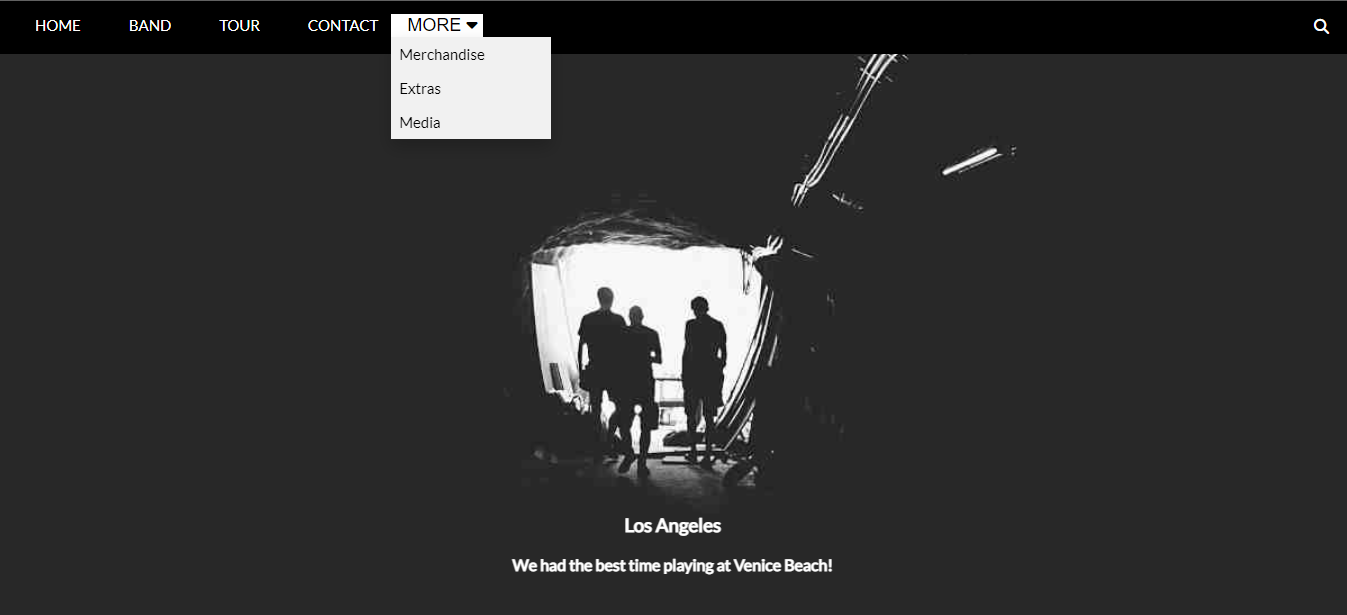
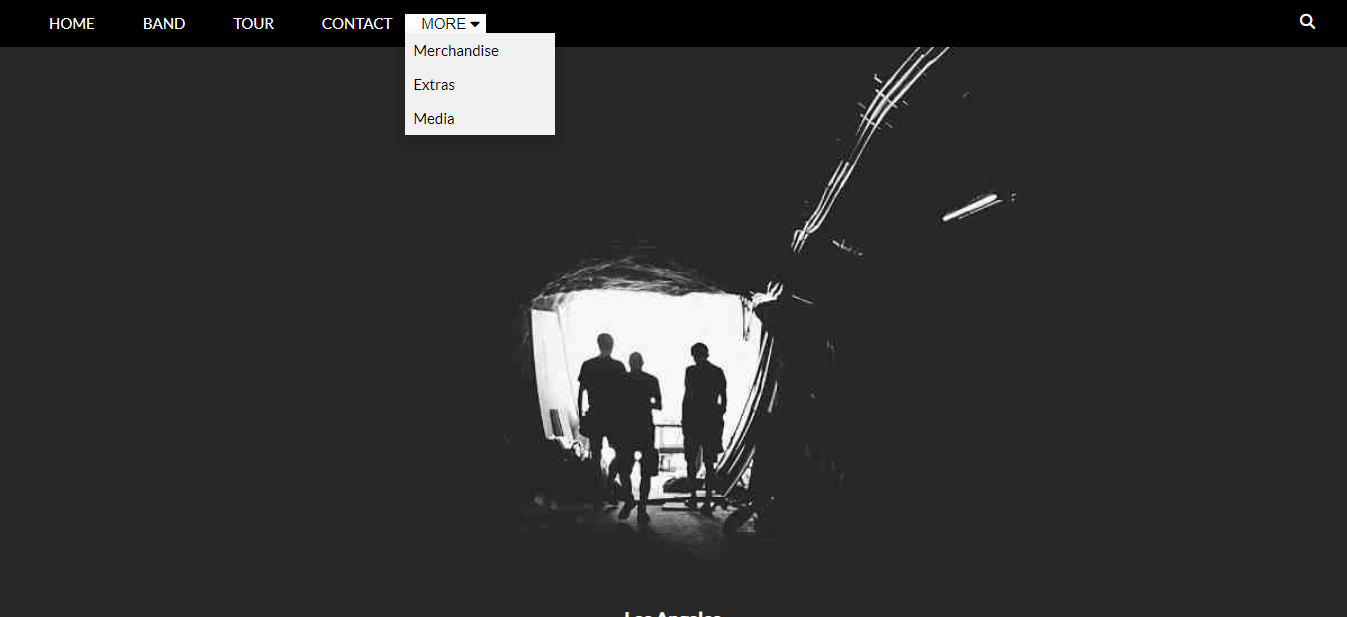
ek dosyalar duzenlendi ve proje tamamlandı

diff --git a/index.html b/index.html
@@ -1,0 +1,157 @@
+<!DOCTYPE html>
+<html lang="tr">
+<head>
+    <meta charset="UTF-8">
+    <meta http-equiv="X-UA-Compatible" content="IE=edge">
+    <meta name="viewport" content="width=device-width, initial-scale=1">
+    <title>W3.CSS Template</title>
+    <link rel="icon" href="/favicon/1.png" type="image/x-icon" />
+    <link rel="stylesheet" href="/style.css">
+    <link rel="stylesheet" href="https://fonts.googleapis.com/css?family=Lato">
+    <link rel="stylesheet" href="https://cdnjs.cloudflare.com/ajax/libs/font-awesome/6.3.0/css/all.min.css">
+</head>
+<body>
+    <!-- Navbar Start -->
+    <nav class="menu">
+        <li><a href="#" class="yazi">HOME</a></li>
+        <li></li><a href="#band" class="yazi">BAND</a></li>
+        <li><a href="#tour" class="yazi">TOUR</a></li>
+        <li></li><a href="#contact" class="yazi">CONTACT</a></li>
+        <div class="dropdown">
+            <button class="dropbtn">MORE <i class="fa-solid fa-caret-down"></i></button>
+            <div class="dropdown-content">
+              <a href="#">Merchandise</a>
+              <a href="#">Extras</a>
+              <a href="#">Media</a>
+            </div>
+          </div>
+          <a href="#"><i class="fa-solid fa-magnifying-glass search"></i></a>
+        </nav>
+    <!-- Navbar End -->
+    <div class="picture1">
+        <div class="pic">
+            <img class="pic" src="/assets/la.jpg" style="width: 100%;">
+        <div class="pictext">
+        <h3>Los Angeles</h3>
+        <p><b>We had the best time playing at Venice Beach!</b></p>
+    </div>
+</div>
+</div>
+    <!-- Picture End -->
+
+    <!-- Section Start -->
+    <section class="section" id="band">
+        <h2 class="sech1">T H E &nbsp; B A N D</h2>
+        <h3 class="sech2"><i>We love music</i></h3>
+        <p class="secparagraf">We have created a fictional band website. Lorem ipsum dolor sit amet, consectetur adipiscing elit, sed do eiusmod tempor incididunt ut labore et dolore magna aliqua. Ut enim ad minim veniam, quis nostrud exercitation ullamco laboris nisi ut aliquip ex ea commodo consequat. Duis aute irure dolor in reprehenderit in voluptate velit esse cillum dolore eu fugiat nulla pariatur. Excepteur sint occaecat cupidatat non proident, sunt in culpa qui officia deserunt mollit anim id est laborum consectetur adipiscing elit, sed do eiusmod tempor incididunt ut labore et dolore magna aliqua. Ut enim ad minim veniam, quis nostrud exercitation ullamco laboris nisi ut aliquip ex ea commodo consequat.</p>
+        <div>
+            <div class="anadiv">
+                <div class="d1">
+                <p class="bprg1">Name</p>
+                <img class="bimg1" src="/assets/bandmember.jpg">
+            </div>
+            </div>
+            <div class="anadiv">
+                <div class="d2">
+                <p class="bprg1">Name</p>
+                <img class="bimg1" src="/assets/bandmember.jpg">
+            </div>
+            </div>
+            <div class="anadiv">
+                <div class="d3">
+                <p class="bprg1">Name</p>
+                <img class="bimg1" src="/assets/bandmember.jpg">
+            </div>
+            </div>
+    </div>
+    <div class="tour" id="tour">
+        <div>
+        <h2 class="tourh1">T O U R &nbsp; D A T E S</h2>
+        <p class="tourp1"><i>Remember to book your tickets!</i></p>
+        <ul class="list">
+            <li class="li1">September<span class="sp1">Sold Out</span></li>
+            <hr>
+            <li class="li2">October<span class="sp2">Sold Out</span></li>
+            <hr>
+            <li class="li3">November<span class="sp3">3</span></li>
+        </ul>
+    </div>
+    <div class="card">
+        <div class="ny">
+        <img class="img1" src="/assets/newyork.jpg">
+        <br>
+            <h3 class="ch1">New York</h3>
+            <p class="cprg1">Fri 27 Nov 2016</p>
+            <p class="cprg2">Praesent tincidunt sed tellus ut rutrum sed vitae justo.</p>
+            <button class="button1" type="submit">Buy Tickets</button>
+        </div>
+        <div class="prs">
+            <img class="img1" src="/assets/paris.jpg">
+            <br>
+            <h3 class="ch1">Paris</h3>
+            <p class="cprg1">Sat 28 Nov 2016</p>
+            <p class="cprg2">Praesent tincidunt sed tellus ut rutrum sed vitae justo.</p>
+            <button class="button1" type="submit">Buy Tickets</button>
+        </div>
+        <div class="sanf">
+            <img class="img1" src="/assets/sanfran.jpg">
+            <br>
+            <h3 class="ch1">San Francisco</h3>
+            <p class="cprg1">Sun 29 Nov 2016</p>
+            <p class="cprg2">Praesent tincidunt sed tellus ut rutrum sed vitae justo.</p>
+            <button class="button1" type="submit">Buy Tickets</button>
+        </div>
+    </div>
+    </div>
+    <div class="contact" id="contact">
+        <div>
+        <h2 class="ch">C O N T A C T</h2>
+        <p class="cp"><i>Fan? Drop a note!</i></p>
+        <div class="anadiv1">
+            <div class="bilgi">
+                <i class="fa-solid fa-location-dot location logo"></i> Chicago, US <br>
+                <i class="fa-solid fa-phone phone logo"></i> Phone: +00 151515 <br>
+                <i class="fa-solid fa-envelope mail logo"></i> Email: mail@mail.com
+            </div>
+            <div class="cont1">
+                <form action="">
+                 <div class="name">
+                    <input class="name" type="text" placeholder="Name">
+                    <input class="name" type="text" placeholder="E-Mail">
+                <div>
+                    <br>
+                    <input class="message" type="text" placeholder="Message">
+                </div>
+                <br>
+                    <button class="button2" type="submit">SEND</button>
+                </form>
+            </div>
+        </div>
+    </div>
+    </div>
+    <!-- Section End -->
+
+    <!-- Map Start -->
+    <div class="map">
+        <img src="/assets/map.jpg" style="width: 100%;">
+    </div>
+    <!-- Map End -->
+
+    <!-- Footer Start -->
+    <footer class="footer">
+        <div>
+        <i class="fa-brands fa-square-facebook fimg"></i>
+        <i class="fa-brands fa-instagram fimg"></i>
+        <i class="fa-brands fa-snapchat fimg"></i>
+        <i class="fa-brands fa-pinterest-p fimg"></i>
+        <i class="fa-brands fa-twitter fimg"></i>
+        <i class="fa-brands fa-linkedin-in fimg"></i>
+    </div>
+    <div>
+    <p class="footprg" >Powered by <a class="link" href="https://www.w3schools.com/w3css/default.asp">w3.css</a></p>
+</div>
+    </footer>
+    <!-- Footer End -->
+
+</body>
+</html> 
